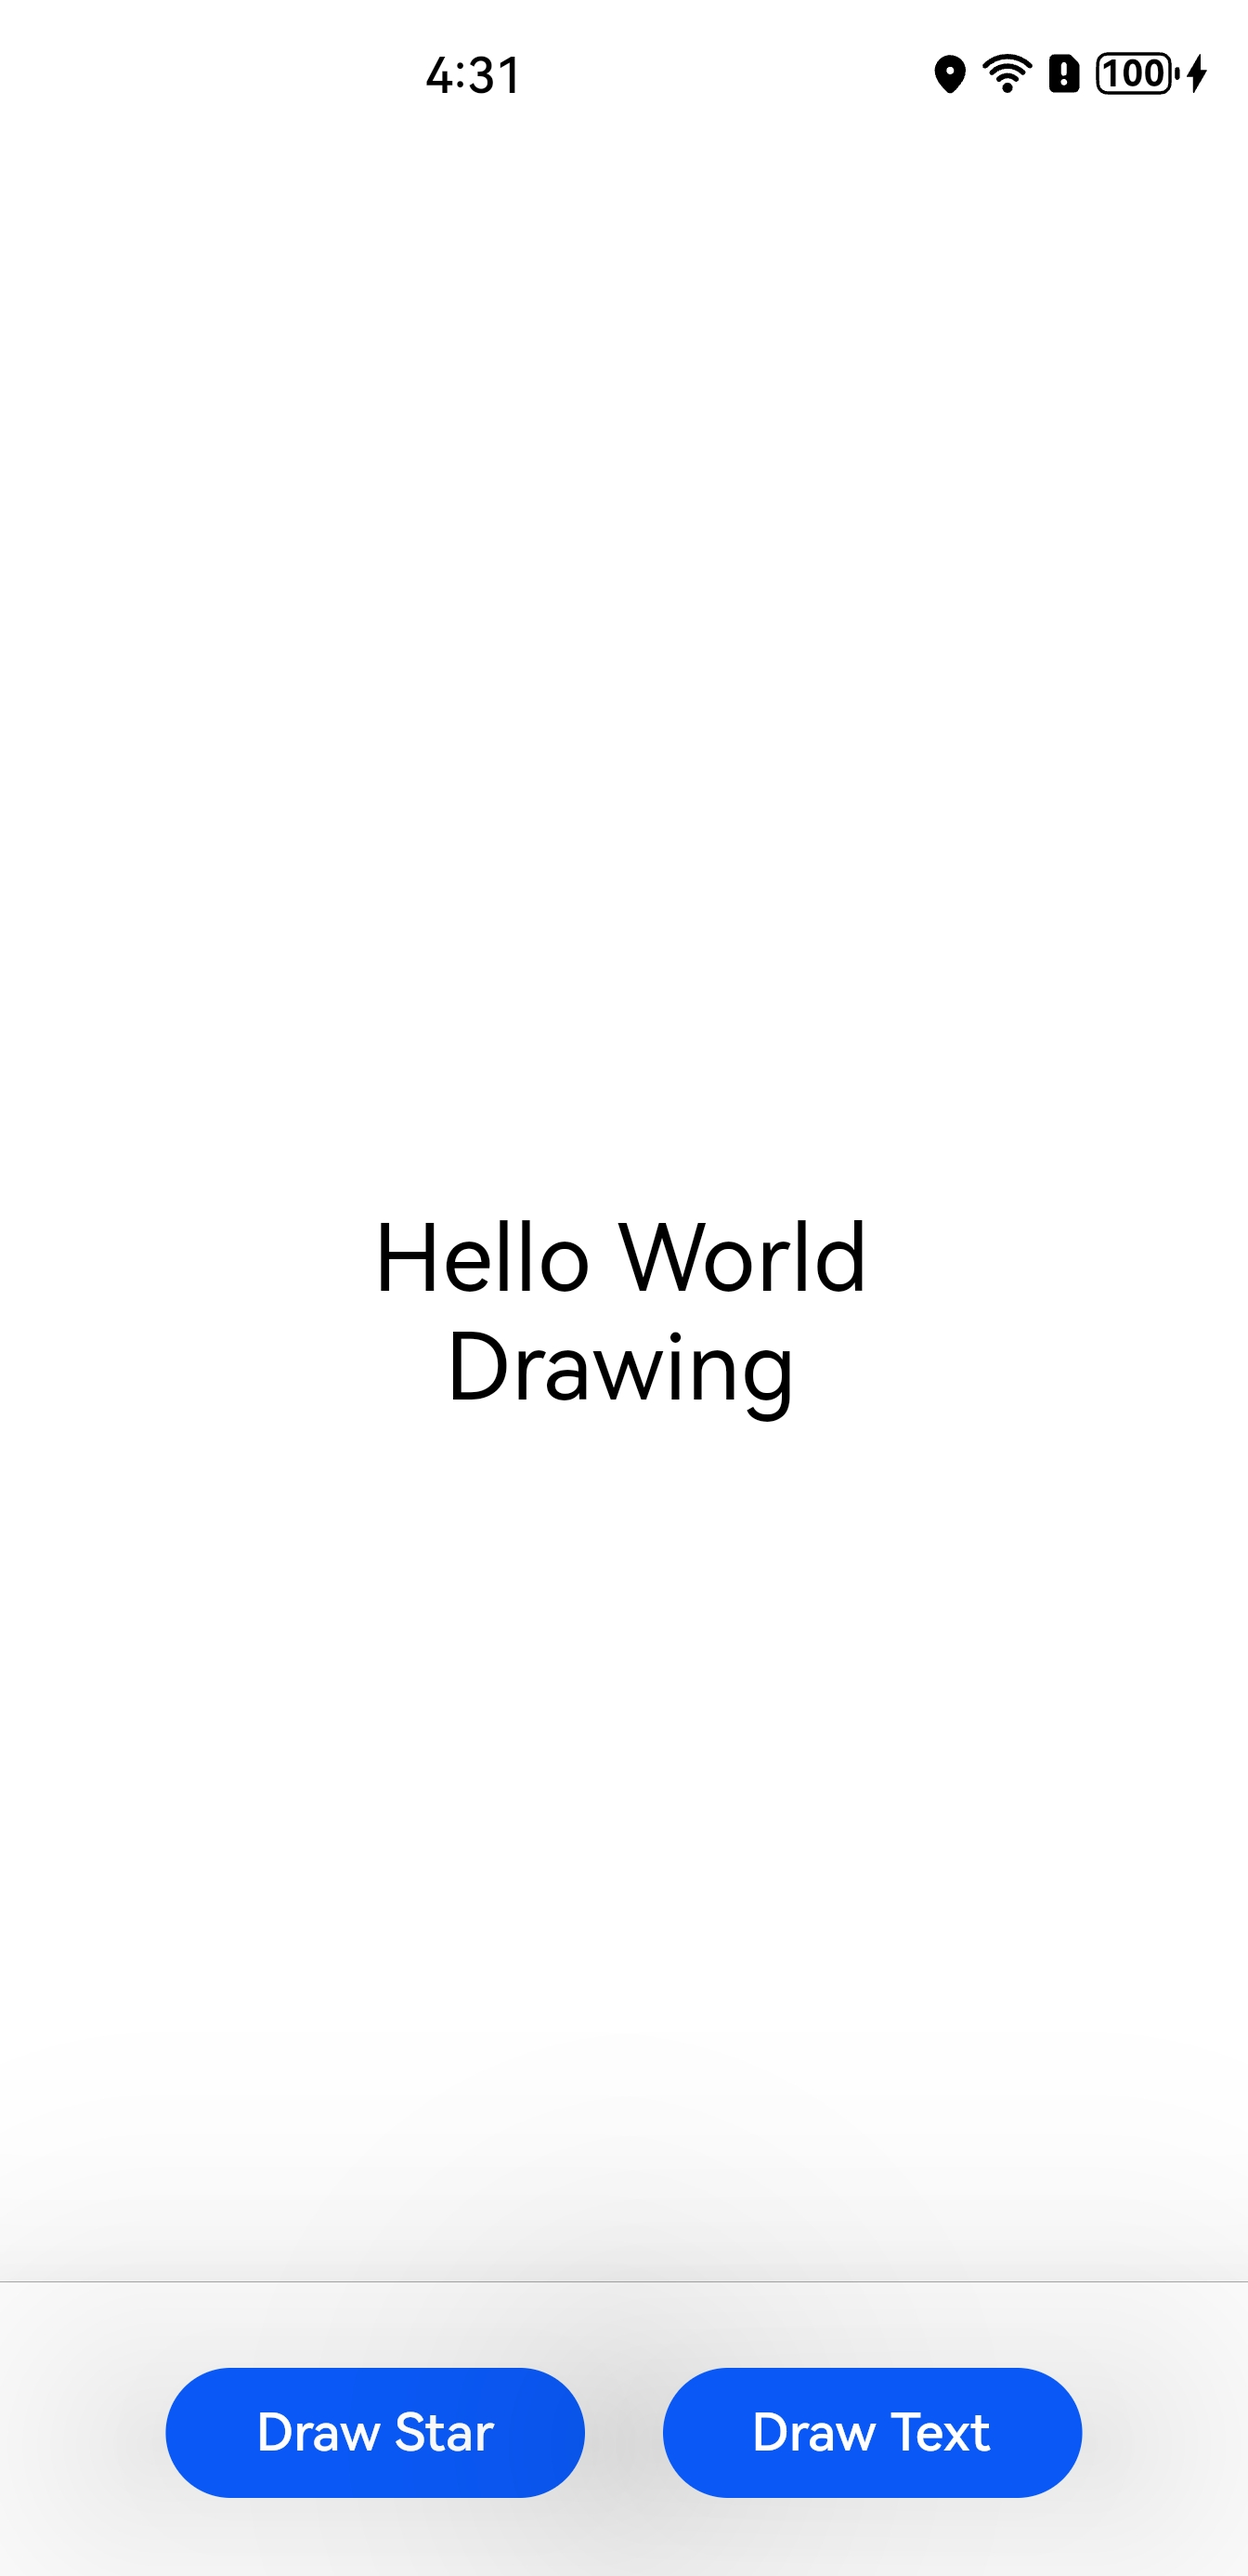
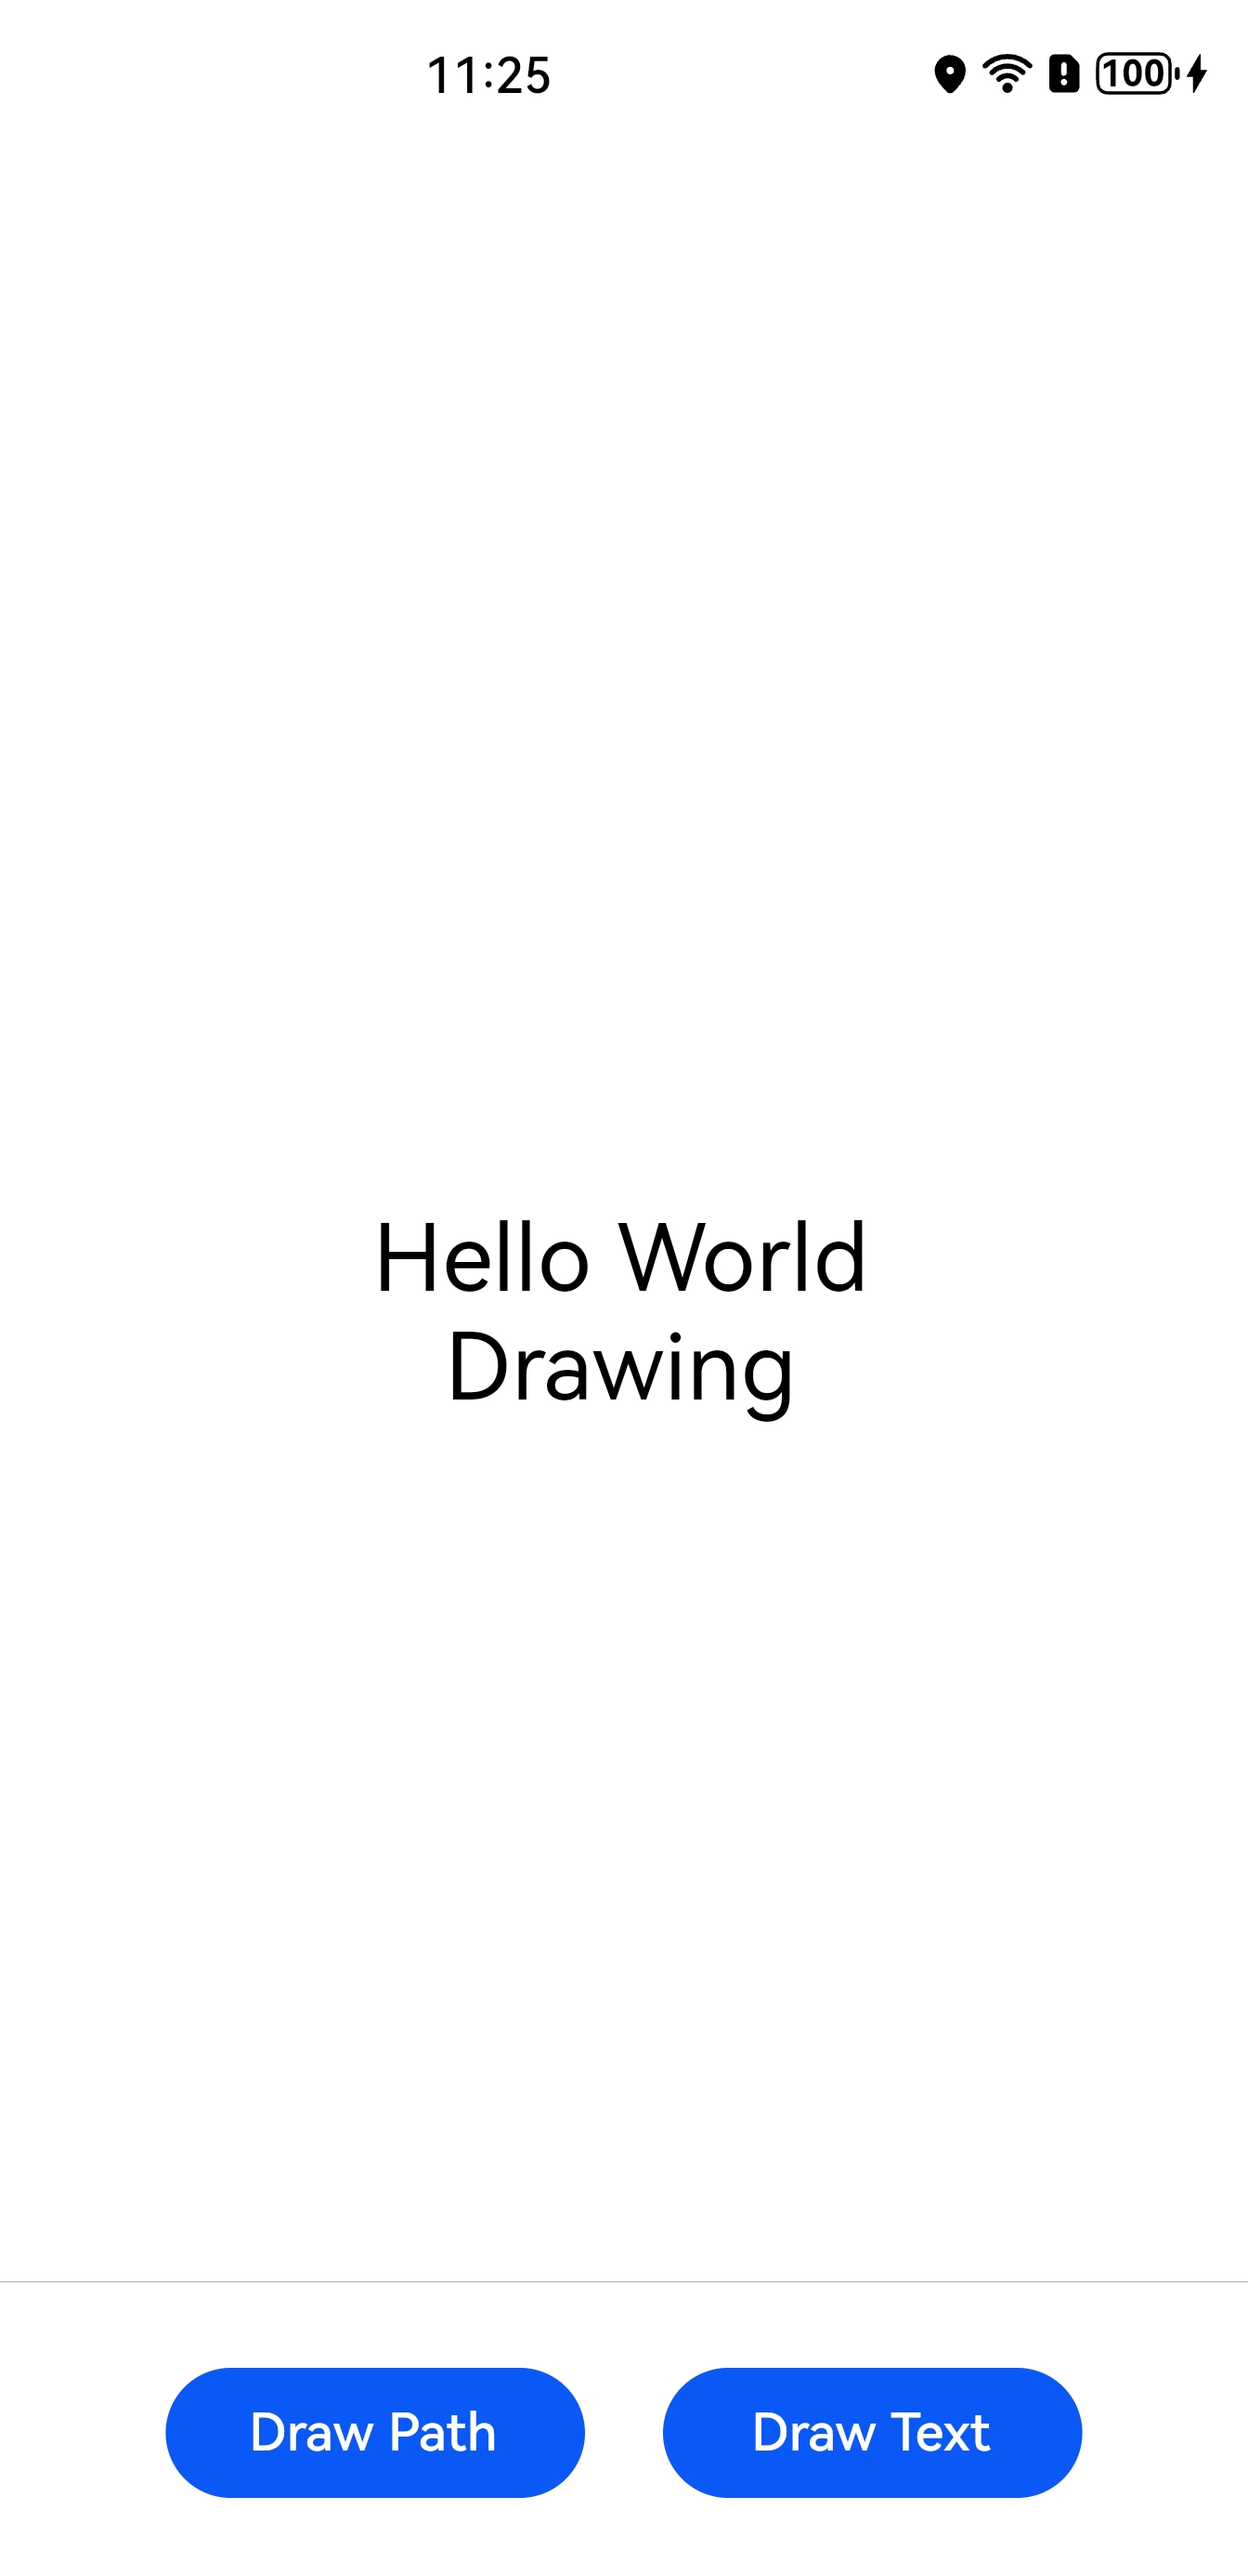
Draw Star -> Draw Path Signed-off-by: s30029175 <shiqiwei4@huawei.com>

Changed region(s): [[0.1875, 0.8997, 0.625, 0.9928], [0.3438, 0.0, 0.4375, 0.031]]

diff --git a/code/BasicFeature/Native/NdkDrawing/entry/src/main/ets/interface/XComponentContext.ts b/code/BasicFeature/Native/NdkDrawing/entry/src/main/ets/interface/XComponentContext.ts
@@ -1,4 +1,5 @@
 export default interface XComponentContext {
   drawPattern(): void;
+
   drawText(): void;
 };

diff --git a/code/BasicFeature/Native/NdkDrawing/entry/src/main/cpp/samples/sample_bitmap.cpp b/code/BasicFeature/Native/NdkDrawing/entry/src/main/cpp/samples/sample_bitmap.cpp
@@ -179,7 +179,7 @@ void SampleBitMap::SetPenAndBrush() {
     OH_Drawing_CanvasAttachBrush(cCanvas_, cBrush_);
 }
 
-void SampleBitMap::DrawStar() {
+void SampleBitMap::DrawPath() {
     // 在画布上画path的形状，五角星的边框样式为pen设置，颜色填充为Brush设置
     OH_Drawing_CanvasDrawPath(cCanvas_, cPath_);
 }
@@ -259,10 +259,10 @@ napi_value SampleBitMap::NapiDrawPattern(napi_env env, napi_callback_info info) 
         render->Create();
         render->ConstructPath();
         render->SetPenAndBrush();
-        render->DrawStar();
+        render->DrawPath();
         render->DisPlay();
         render->Destroy();
-        DRAWING_LOGI("DrawStar executed");
+        DRAWING_LOGI("DrawPath executed");
     } else {
         DRAWING_LOGE("render is nullptr");
     }

diff --git a/code/BasicFeature/Native/NdkDrawing/entry/src/main/cpp/samples/sample_bitmap.h b/code/BasicFeature/Native/NdkDrawing/entry/src/main/cpp/samples/sample_bitmap.h
@@ -39,7 +39,7 @@ public:
     static napi_value NapiDrawPattern(napi_env env, napi_callback_info info);
     static napi_value NapiDrawText(napi_env env, napi_callback_info info);
     static void Release(std::string &id);
-    void DrawStar();
+    void DrawPath();
     void DrawText();
     void SetWidth(uint64_t width);
     void SetHeight(uint64_t height);

diff --git a/code/BasicFeature/Native/NdkDrawing/README_zh.md b/code/BasicFeature/Native/NdkDrawing/README_zh.md
@@ -1,4 +1,4 @@
-# NdkDrawing
+# Native Drawing
 
 ### 介绍
 
@@ -14,9 +14,9 @@
 
 ### 效果预览
 
-| 主页                                 | 绘制五角星                                    | 绘制文字                                            |
-| ------------------------------------ | --------------------------------------------- | --------------------------------------------------- |
-| ![main](screenshots/device/Index.jpg) | ![Draw Path](screenshots/device/DrawStar.jpg) | ![change color](screenshots/device/DrawText.jpg) |
+| 主页                                 | 绘制五角星                                         | 绘制文字                                            |
+| ------------------------------------ |-----------------------------------------------| --------------------------------------------------- |
+| ![main](screenshots/device/Index.jpg) | ![Draw Path](screenshots/device/DrawPath.jpg) | ![change color](screenshots/device/DrawText.jpg) |
 
 ### 工程目录
 
